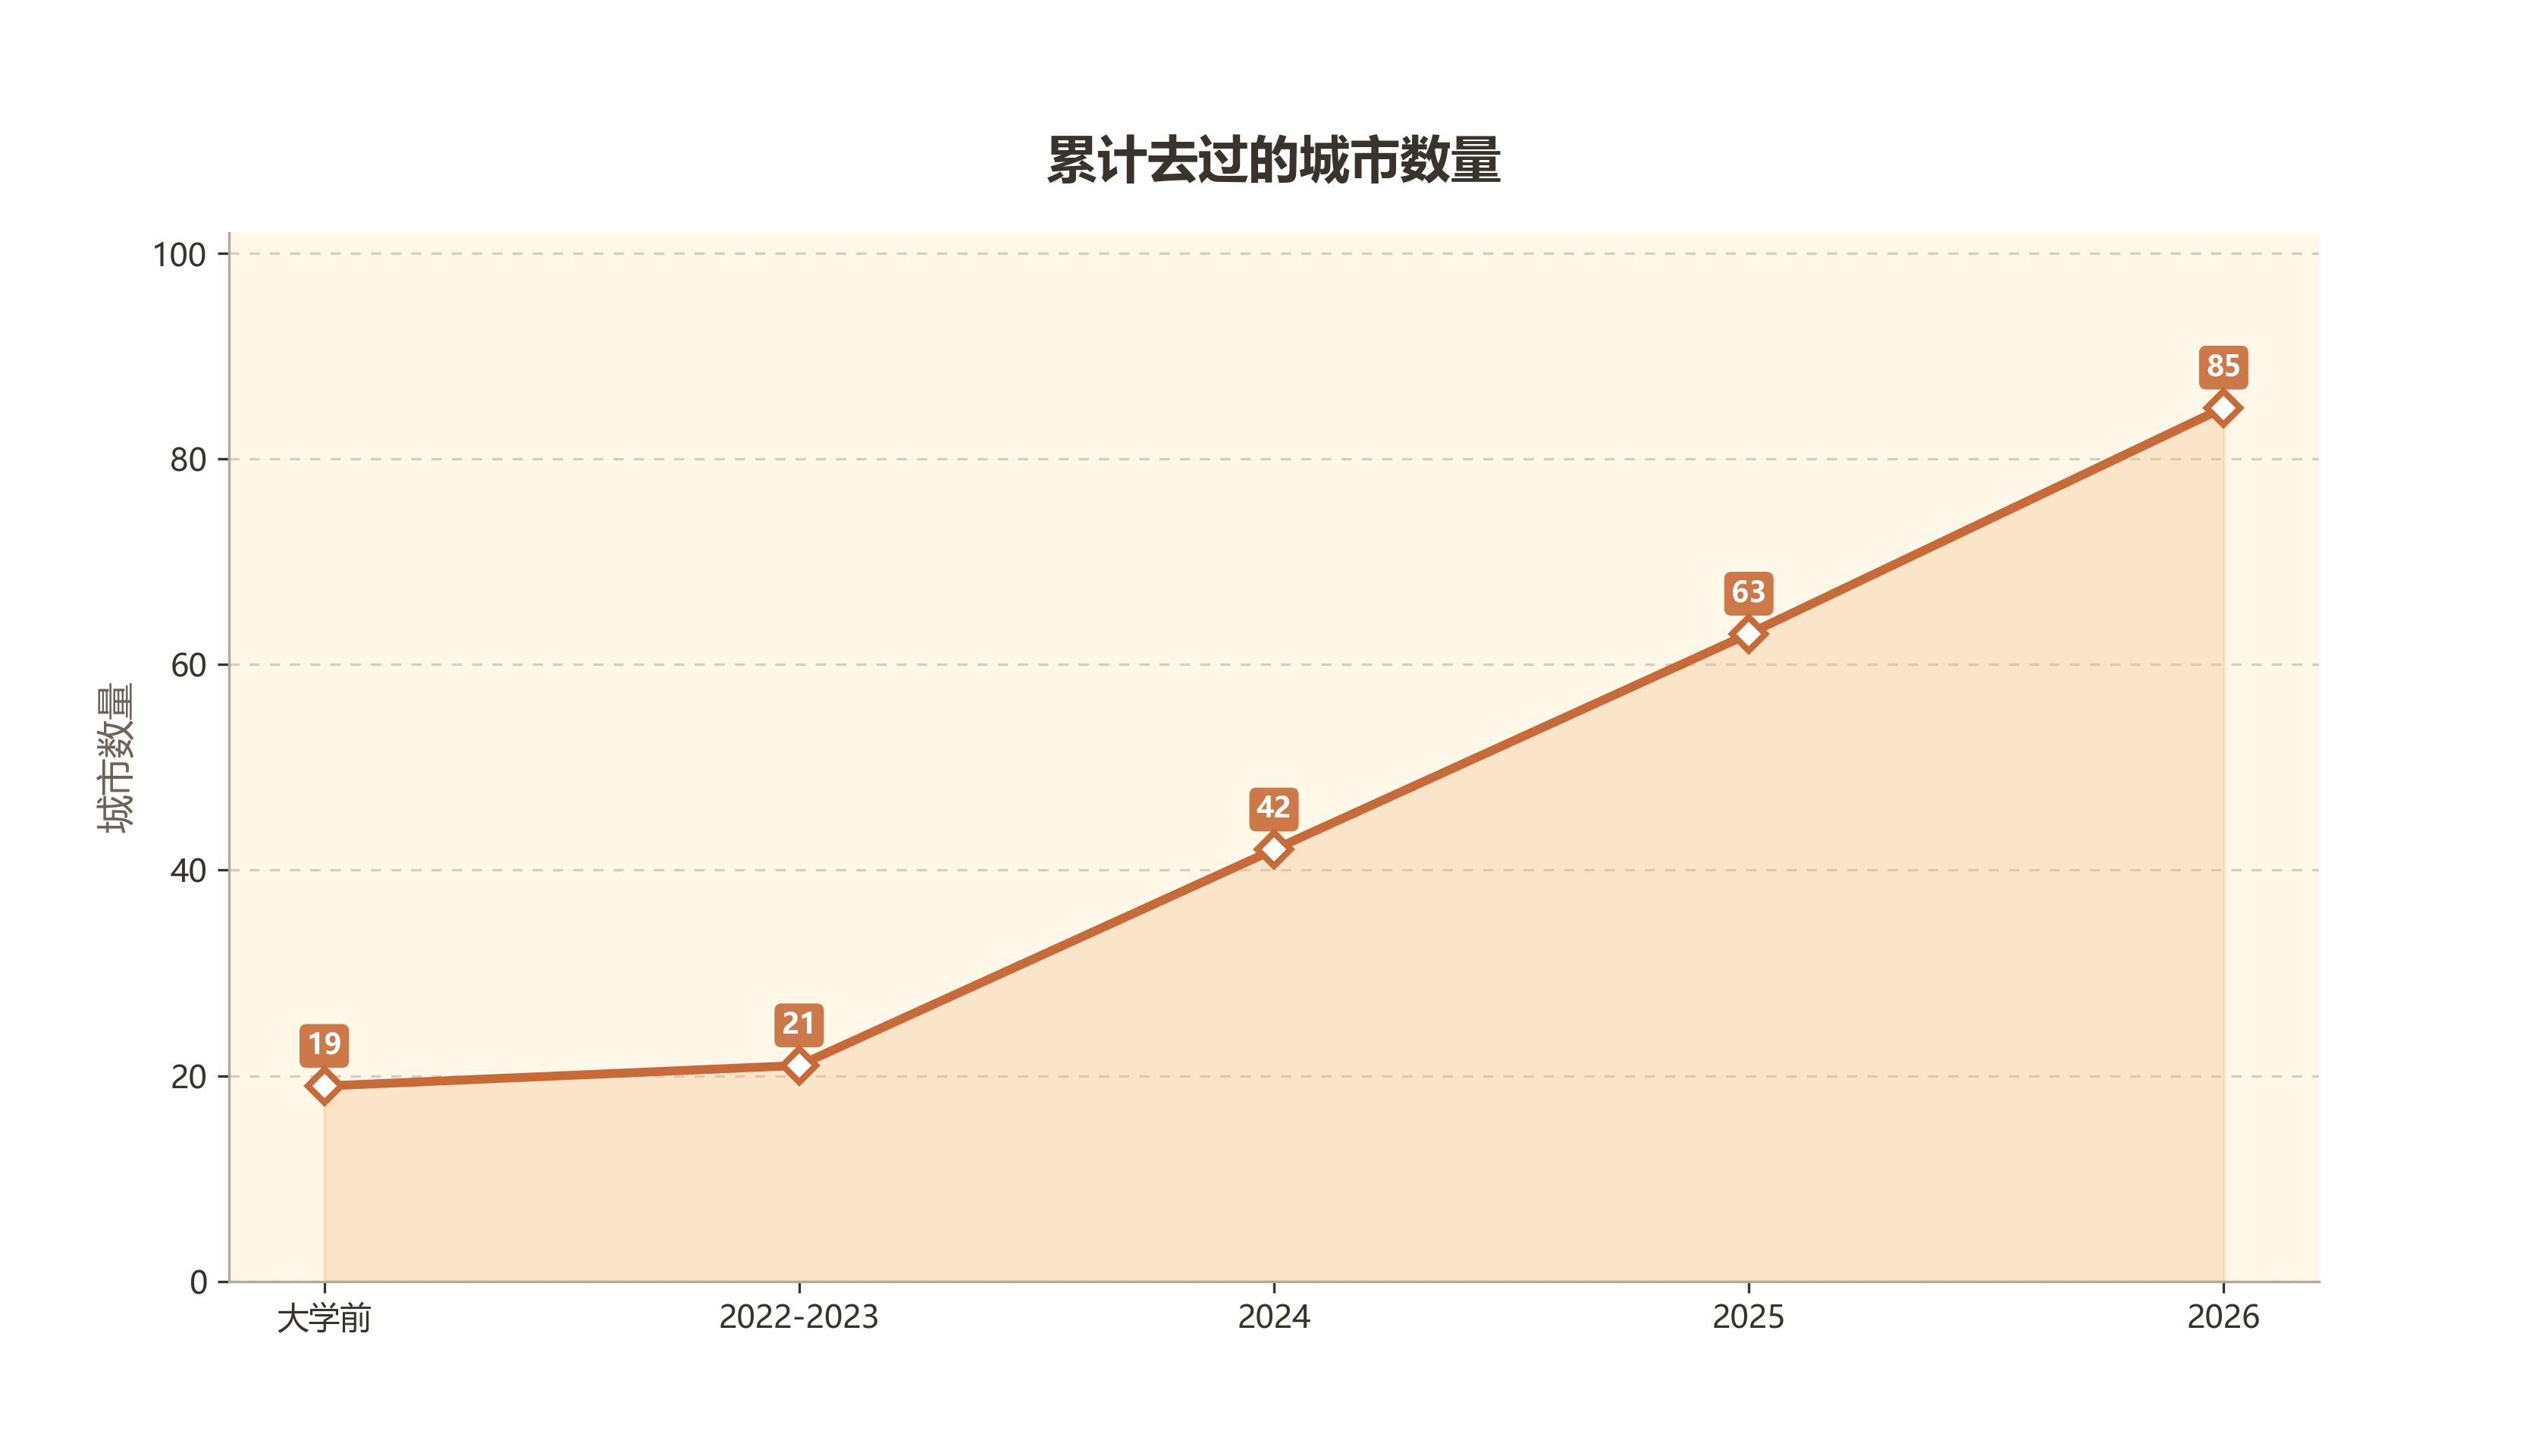
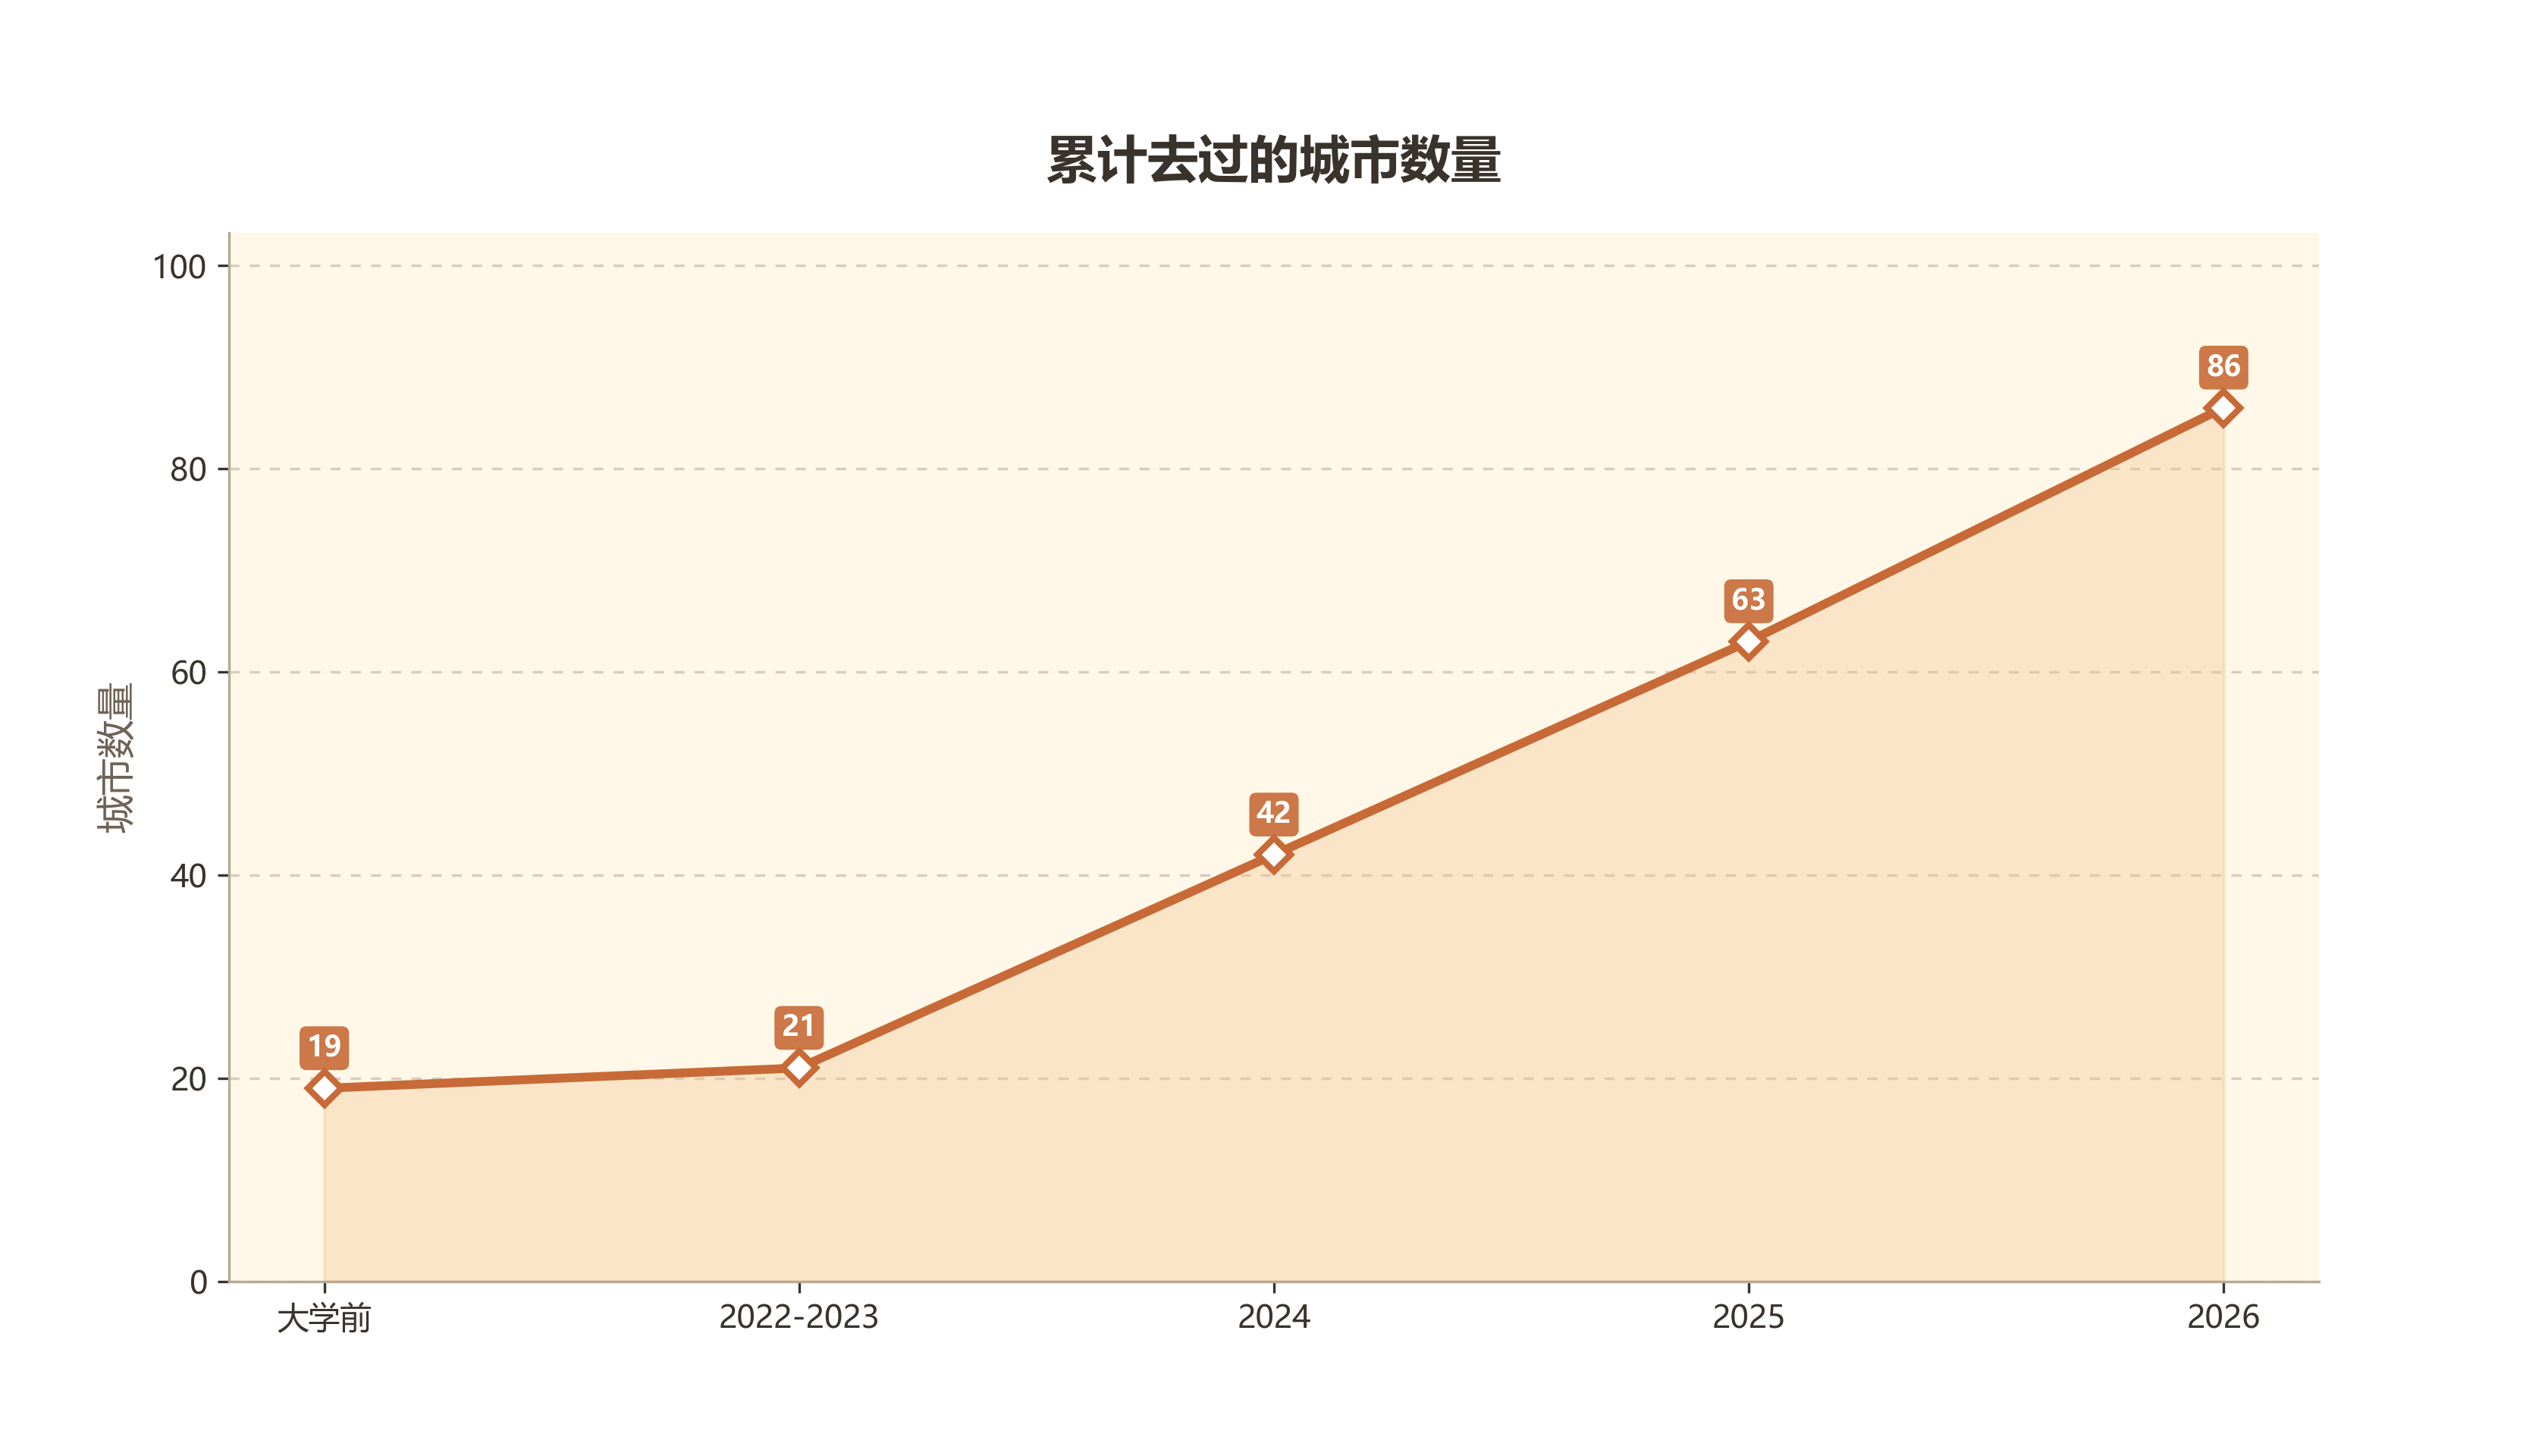
commit

diff --git a/draw.py b/draw.py
@@ -40,8 +40,8 @@ TOP_MARGIN = 0.84
 
 CITY_DATA = {
     "years": ["大学前", "2022-2023", "2024", "2025", "2026"],
-    "new_cities": [19, 2, 21, 21, 22],
-    "cumulative_cities": [19, 21, 42, 63, 85],
+    "new_cities": [19, 2, 21, 21, 23],
+    "cumulative_cities": [19, 21, 42, 63, 86],
 }
 
 
@@ -162,8 +162,11 @@ def draw_area_chart(labels, values, title, ylabel, output_name, line_color, fill
     plt.close(fig)
 
 
-def extract_table_lines(markdown_text, marker):
+def extract_table_lines(markdown_text, markers):
     """Locate a Markdown table by its nearby section marker."""
+    if isinstance(markers, str):
+        markers = [markers]
+
     lines = markdown_text.splitlines()
     collected_lines = []
     found_marker = False
@@ -173,7 +176,7 @@ def extract_table_lines(markdown_text, marker):
         line = raw_line.strip()
 
         if not found_marker:
-            if marker in line:
+            if any(marker in line for marker in markers):
                 found_marker = True
             continue
 
@@ -186,7 +189,8 @@ def extract_table_lines(markdown_text, marker):
             break
 
     if not collected_lines:
-        raise ValueError(f"未找到 {marker} 对应的 Markdown 表格。")
+        marker_text = " / ".join(markers)
+        raise ValueError(f"未找到 {marker_text} 对应的 Markdown 表格。")
 
     return collected_lines
 
@@ -408,8 +412,8 @@ def main():
         marker="D",
     )
 
-    railway_stats = parse_yearly_transport_stats(markdown_text, "铁路记录如下")
-    flight_stats = parse_yearly_transport_stats(markdown_text, "飞行记录如下")
+    railway_stats = parse_yearly_transport_stats(markdown_text, ["铁路记录如下", "展开铁路记录表"])
+    flight_stats = parse_yearly_transport_stats(markdown_text, ["飞行记录如下", "展开飞行记录表"])
     years = build_year_range(railway_stats, flight_stats)
 
     railway_counts, railway_distances = build_series(railway_stats, years)

diff --git a/source/_posts/雷州，雷州.md b/source/_posts/雷州，雷州.md
@@ -9,77 +9,72 @@ date: 2020-08-22 00:00:00
 
 ## 城内 · 城外
 
-虽然三元塔是雷州地标级的建筑，但我也仅去过寥寥几次。塔共九层，前面竖了座碑，写有“天南重地”。越往高处楼梯越窄越陡，我只上到过第三层，自然没有“无边落木萧萧下”的境界。上面有很大的风，而不是城中时时可感的涌动的热气。据说从这里挖出了三枚蛇蛋，吸收了天、地、人“三元”的灵气，但普通人自然难以见到。小时候对三元塔公园最深刻的印象是在长廊里排开的哈哈镜，它们或把天地浓缩于一体，或把刚飞过塔楼的鸟儿夸张地放大。那里还算一个石狗博物馆，各种大小不一形态或狞厉或温顺的石物，在蓝天底下也不觉什么可怖。曾在学校博学楼后发现了多“只”石狗，似乎是从某处撬来的，或互相粘连成形单影只，多少有些落魄。
+虽然三元塔是雷州地标级的建筑，但我也仅去过寥寥几次。塔共九层，前面竖了座碑，写有“天南重地”。越往高处楼梯越窄越陡，我只上到过第三层，虽无“无边落木萧萧下”的境界，但能暂时避开城中时时可感的涌动的热气。据说从这里挖出了三枚蛇蛋，吸收了天、地、人“三元”的灵气，但普通人自然难以见到。小时候对三元塔公园最深刻的印象是在长廊里排开的哈哈镜，它们或把天地浓缩于一体，或把刚飞过塔楼的鸟儿夸张地放大。那里还算一个露天的石狗博物馆，各种大小不一形态或狞厉或温顺的石物，在蓝天底下也不觉什么可怖。
 
-按大人讲，三元塔属“城内”，若是沿旁边的曲街走，过不了多久就能到达“城外”，曲街确实弯曲，春节时曾去逛过。道旁一座小塔，好像也有七层，不过小得很，人进不去。当时街道上店铺很少开门，清一色的灰黑色门板和骑楼灰白的柱子，一些简明的大字招牌。走到人声鼎沸、汽车摩托车单车混杂的转角处，便与“城外鱼亭”不远了，“鱼亭”就是市场；好像还有“城内鱼亭”的，我也搞不清。
+按大人讲，三元塔属“城内”，若是沿旁边的曲街走，过不了多久就能到达“城外”。曲街确实弯曲，今年春节时曾去逛过，当时街道上店铺很少开门，满眼清一色的灰黑色门板和骑楼灰白的柱子，以及一些简明的大字招牌。道旁有一座小塔，好像也有七层，不过小得很，人进不去。走到人声鼎沸、汽车摩托车单车混杂的转角处，便与“城外鱼亭”不远了，“鱼亭”就是市场；好像还有“城内鱼亭”的，我也搞不清。
 
-“城内”与“城外”是上一辈人十分明晰的概念，好像还有“南门”、“北门”之类，难道有城墙，然后像北京城一样拆了？不知是不是越往外越荒凉，但对我而言，这只是一块混沌的区域，似乎原来的“城内”“城外”现在只是由一片低矮老旧的房子（除去三元塔鹤立鸡群）和对城里人们的生活产生直接影响的“鱼亭”组成。老街里有电影院（已经关门，快要拆了），几十年前姨妈曾在这里卖票，能让娱乐匮乏年代里的家人能“走后门”。还有运动场，现在还常举行足球赛，当年的繁华可见一斑。
+“城内”与“城外”是上一辈人十分明晰的概念，好像还有“南门”、“北门”之类，难道有城墙，然后像北京城一样拆了？对我而言，这只是一块混沌的区域，似乎只是由一片低矮老旧的房子（除去三元塔鹤立鸡群）和对城里人们的生活产生直接影响的“鱼亭”组成。老街里有电影院（已经关门，快要拆了），几十年前姨妈曾在这里卖票，能让娱乐匮乏年代里的家人能“走后门”；还有运动场，现在还常举行足球赛，当年的繁华可见一斑。
 
 
 ## 乡镇
 
-把大片老城区包裹起来的街道上，原来开满了杂货店，不过现在很多“旺铺转让”了（旺铺为什么还要转让？）。在与西湖大道的交界处是旧客运车站（现在是停车场），小时候经过这里，最强烈的渴望就是坐一坐到广州去的、双层的、蓝色的、印有一个巨大地球的客车（可惜从没机会），特别是“双层”让我格外憧憬。
+把大片老城区包裹起来的街道上，原来开满了杂货店，不过现在很多“旺铺转让”了。在与西湖大道的交界处是旧客运车站（现在是停车场），小时候经过这里，最强烈的渴望就是坐一坐到广州去的、双层的、蓝色的、印有一个巨大地球的客车（可惜从没机会），特别是“双层”让我格外憧憬。
 
-沿着那条原先开满杂货店如今有海联电器京东门店的街道走上一段，路右边陡起一个大斜坡，通向市政府（大人称之为“司令部”）。小时候被带来“司令部”宿舍跟一个老师学钢琴，好像只学了一节课就不了了之了。再往前走上几公里，途经附城中学、海石花作文补习学校（我一直不知海石花为何物，看了《海洋地理》课本后才知它就是珊瑚），从一家饭店旁的小路进去，就到我老家的村子。原先这片地方还算偏远，不过自从修了八车道的柏油路，对面又建起碧桂园后，华灯初上时总感觉这里很像大城市的地方，在介绍方位时，也可以更方便地说“就在碧桂园对面”。
+沿着那条原先开满杂货店如今有海联电器京东门店的街道走上一段，路右边陡起一个大斜坡，通向市政府（大人称之为“司令部”）。小时候被带来“司令部”宿舍跟一个老师学钢琴，好像只学了一节课就不了了之了。再往前走上几公里，途经附城中学、海石花作文补习学校（我一直不知海石花为何物，看了《海洋地理》课本后才知它就是珊瑚），从一家饭店旁的小路进去，就到我老家的村子。原先这片地方还算偏远，不过自从修了八车道的柏油路、对面又建起碧桂园后，华灯初上时总感觉这里颇有大城市的感觉，在介绍方位时，也可以更方便地说“就在碧桂园对面”。
 
-这里属附城镇，也就是在“城”之“附”，雷州下设十八个镇：白沙、沈塘、客路、杨家、唐家、纪家、企水、松竹、南兴、雷高、东里、调风、龙门、英利、北和、乌石、覃斗、附城，但我真正去过的也就只有附城、白沙（路过的不算）。这些镇的名字有点意思，比如白沙很多地方都有（就像开平也有赤坎），“客路”总让人联想到“客路青山外，行舟绿水前”，不过王湾没有被贬到雷州过，不然西湖公园里的“雷州十贤祠”就变成“十一贤”[^1]了。客路天下闻名的当属白斩狗，但只吃过一两次，其中一次是在雷南大道的“松记”，不知为何先民们在崇敬狗以至为狗塑像的同时还迷恋狗肉。疫情期间上网课讲到对联时我曾写下一联：“雷州白切狗，湛江走地鸡。”白切鸡在我们家是烹饪鸡的主要方法，鸡不要太肥，鸡胸肉白而大块最好。至于龙门，纪念司马迁有一副有名的对联“一代君权痛蚕室，千秋史笔溯龙门”，龙门（今陕西韩城）是司马迁的故乡；洛阳还有个龙门石窟，此外小时候做《黄冈小状元》，是龙门书局出版的，不过这些龙门各不相同，和雷州的龙门也没什么关系。
+这里属附城镇，也就是在“城”之“附”，雷州下设十八个镇：白沙、沈塘、客路、杨家、唐家、纪家、企水、松竹、南兴、雷高、东里、调风、龙门、英利、北和、乌石、覃斗、附城，但我真正去过的也就只有附城、白沙（路过的不算）。这些镇的名字有点意思，比如白沙很多地方都有（就像开平也有赤坎），“客路”容易让人联想到“客路青山外，行舟绿水前”，不过王湾没有被贬到雷州过，不然西湖公园里的“雷州十贤祠”就变成“十一贤”[^1]了。客路天下闻名的当属白斩狗，但我只吃过一两次，其中一次是在雷南大道的“松记”，不知为何先民们在崇敬狗以至为狗塑像的同时还迷恋狗肉。疫情期间上网课讲到对联时我曾写下一联：“雷州白切狗，湛江走地鸡。”白切鸡在我们家是烹饪鸡的主要方法，鸡不要太肥，鸡胸肉白而大块最好。至于龙门，纪念司马迁有一副有名的对联“一代君权痛蚕室，千秋史笔溯龙门”，龙门（今陕西韩城）是司马迁的故乡；洛阳还有个龙门石窟，此外小时候做《黄冈小状元》，是龙门书局出版的，不过这些龙门各不相同，和雷州的龙门也没什么关系。常听外婆说覃斗的芒果出名，是后来引进的，长得很好，老百姓有好收成。
 
-过去村里都是泥路，近几年铺了水泥，安装了路灯，夜里还是能看见星星。村子旁有一条狭长的村道，把几个村子连缀起来。要走过一片浓绿的农田、沟壑、白色的大棚才到下一个村子。听爸爸讲，一直往下走能到海边。要说海，乌石那边的海滩是很有名的，海面上还有钻油井。企水也有渔港，不过我对企水、客路的印象不过是从湛江市区回雷州时的必经之地罢了。现在有了雷湖快线，从新车站那边上工业大道，一直往前走就可以到湛江了，比高速还快很多。路上有一座库竹大桥，听父亲讲过几次，这里是寇准在琼海一带病故后，百姓们用竹子搭桥送其遗骨过河的地方。路边还有几行空空的平房，是父亲刚毕业时来工作的渡口，现在渡口也建成大桥。常听外婆讲起覃斗的芒果出名，是后来引进的，长得很好，老百姓有好收获。
-
+过去村里都是泥路，近几年铺了水泥，安装了路灯，夜里还是能看见星星。村子旁有一条狭长的村道，把几个村子连缀起来。要走过一片浓绿的农田、沟壑、白色的大棚才到下一个村子。听父亲讲，一直往下走能到海边。要说海，乌石那边的海滩是很有名的，海面上还有钻油井。企水也有渔港，不过我对企水、客路的印象主要是小时从湛江市区回雷州时的必经之地。现在有了雷湖快线，从新车站那边上工业大道，一直往前走就可以到湛江了，比高速还快很多。路上有一座库竹大桥，听父亲讲过几次，这里是寇准在雷州病故后，百姓们用竹子搭桥送其遗骨过河的地方。路边还有几行空空的平房，是父亲大学刚毕业时工作过的渡口，现在渡口旁也建起了大桥。
 
 ## 西湖新村
 
-杭州有西湖，惠州有西湖，雷州有西湖，苏轼应该三处都游玩过。C同学说他们小学时写游记，全班人都写“美丽的西湖公园”，但很难说西湖有什么特别迷人的地方。外婆家就在公园后面，一个叫“西湖新村”的地方，和园中园酒店隔一条水沟。园中园前面广场上停了一架挺小的战斗机，好像参加过抗美援朝战争。它穿过战火与历史的烟雨，轮子被卸掉了，玻璃变白了。
+杭州有西湖，惠州有西湖，雷州有西湖，苏轼应该三处都到过。C 同学说他们小学时写游记，全班人都写“美丽的西湖公园”，但事实上很难说西湖有什么特别迷人的地方。外婆家就在公园后面一个叫“西湖新村”的地方，和园中园酒店隔一条水沟。园中园门前停了一架挺小的战斗机，好像参加过抗美援朝战争。它穿过战火与历史的烟雨，轮子被卸掉了，玻璃变白了。
 
-外婆家有个院子，不算大，却能装一个能养十几只鸡的鸡舍，两株龙眼树，一个大水缸，一台老旧的缝纫机，一台几年前外婆还能骑着去买菜的自行车。那龙眼树很神奇，隔年才生龙眼，虽然没有多么大，但是能压低枝头，挂在二楼的窗台上，今年又长龙眼了，这段时间雨水多，赶忙把龙眼摘下来（有很多已经给邻居摘走了），装了半麻袋，很多的壳已经裂开，也因浸泡了雨水也不觉那么甜了。摘龙眼是用一根长长的竹竿（一端绑一个剪开半边的塑料瓶），小时中午不睡觉想拿这“装置”摘龙眼，叶子倒是落了很多。假如现在去摘（当然没空回去），应该是比较容易的了，不过仰着脖子可能不太好受。
+外婆家有个院子，不算大，却能装一个能养十几只鸡的鸡舍，两株龙眼树，一个大水缸，一台老旧的缝纫机，一辆几年前外婆还能骑着去买菜的自行车。那龙眼树很神奇，隔年才生龙眼，虽然没有多么大，但是能压低枝头，挂在二楼的窗台上；今年又长龙眼了，这段时间雨水多，外婆赶忙把龙眼摘下来（有不少已经被邻居摘走了），装了半麻袋，很多的壳已经裂开，也因浸泡了雨水而不那么甜了。摘龙眼是用一根长长的竹竿（一端绑一个剪开半边的塑料瓶），小时中午不睡觉想拿这“装置”摘龙眼，龙眼没够到，叶子倒是落了很多。假如现在去摘（当然没空回去），应该是比较容易的了，不过仰着脖子可能不太好受。
 
-外婆十分虔诚，逢一些初一十五佛祖诞辰照例要吃斋的，有时候头晕到万不得已才向佛祖“请假”。她在雷州待着时，常去路头的小庙或是雷州一中老校区边的天宁寺，在家则早晚面朝西双手合十念念前词，念完往前弯几下腰，似有总结全文升华主题之意。小时候父亲带我进天宁寺看过，里面肃静威严，青布长衣的和尚悄悄走动令人敬畏，我还以为那些金身画像是孙悟空之类。雷州博物馆在天宁寺斜对面，非常气派，但里面空空荡荡，一群石狗似乎是租客。博物馆两侧和后面卖玩具的店居多，有一家价格挺贵，但也红火，大人说是“汕头仔”的，似有不屑的意味。博物馆旁是广场，常有唱雷剧的，原来春节时母亲带外婆去听（那里还放满了塑料凳子），我只觉得鼓乐喧天而不知所云，满耳都是ā á ǎ à，只能逃到旁边的新华书店。
+外婆十分虔诚，逢一些初一十五佛祖诞辰照例要吃斋的，有时候头晕到万不得已才向佛祖“请假”。她在雷州待着时，常去路头的小庙或是雷州一中老校区边的天宁寺，在家则早晚面朝西双手合十念念前词，念完往前弯几下腰，似有总结全文升华主题之意。小时候父亲带我进天宁寺看过，里面肃静威严，青布长衣的和尚悄悄走动令人敬畏，我还以为那些金身画像是孙悟空之类。雷州博物馆在天宁寺斜对面，非常气派，但里面空空荡荡，一群石狗似乎是租客。博物馆两侧和后面以玩具店居多，有一家价格挺贵，但也红火，大人说是“汕头仔”的，似有不屑的意味。博物馆旁是广场，常有唱雷剧的，春节时母亲带外婆去听（那里还放满了塑料凳子），我只觉得鼓乐喧天而不知所云，满耳都是ā á ǎ à，只能逃到旁边的新华书店。
 
-原来正月里还有游神，各种花车流过大街，舞龙舞狮鞭炮轰鸣，观者如堵，我曾看过两次，一次是在婶婶的店铺门口，另一次是在博物馆前，还是外婆早早摆了凳子占座位的。游神现在已经简化成几个人敲锣打鼓，几个人舞一头狮，穿过大街小巷，隔一处就放一挂鞭炮，外婆在此时就会放下手上的活计站在院里对着“狮子”双手合十，微微点头。
-
+过去正月里还有游神，各种花车流过大街，舞龙舞狮鞭炮轰鸣，观者如堵。我曾看过两次，一次是在婶婶的店铺门口，另一次是在博物馆前，外婆早早摆了凳子占座。游神现在已经简化成几个人敲锣打鼓，几个人舞一头狮了，他们穿过大街小巷，隔一处就放一挂鞭炮，外婆在此时就会放下手上的活计站在院里对着“狮子”双手合十，微微点头。
 
 ## 南湖
 
-西湖广场舞台后面是南湖，湖中有拱桥，现在挂上了彩灯，晚上流光溢彩，容易想起白居易的“灯火万家城旧畔，星河一道水中央”。湖边是广场，照例是老人们的乐园。从广场过马路，沿一条水沟向里走，就是“后闸”了，这是姑妈原来住的地方。路头有一家诊所，贴有防止狂犬病的海报（后来应该是关于新冠疫情的）。姑妈家大约在中间，只有一层半，进门是厅，很昏暗，靠天井洒下光，一角有台电视机，下面有个装满了啤酒盖的麻袋，一侧是一条黑色的老旧的但摸起来十分光滑的红木椅，墙上有一张中国地图，一张画报，上写“风和日丽”，二楼有个鱼缸，鱼食的味道很好闻，还养了几只鸽子。
+西湖广场舞台后面是南湖，湖中有拱桥，现在挂上了彩灯，晚上流光溢彩，容易想起白居易的“灯火万家城旧畔，星河一道水中央”。湖边是广场，照例是老人们的乐园。从广场出来，过马路后沿一条水沟向里走，就是“后闸”了，这是姑妈原来住的地方。路口有一家诊所，贴有防治狂犬病的海报。姑妈家在巷子中间，只有一层半，进门是大厅，很昏暗，靠天井洒下光。客厅一角有台电视机，电视下有个装满了啤酒盖的麻袋，另一侧是一条黑色的老旧的但摸起来十分光滑的红木椅，椅后的墙上有一张中国地图，一张写有“风和日丽”的画报。二楼有个鱼缸，鱼食的味道很好闻，还养了几只鸽子。
 
-小时候常去姑妈家，姑父早上会带我去逛。出门后沿小巷走过一座小桥，到达那一端，是一个小市场，墙上电线杆上贴满了小广告。当时下巴上长了一个痣，大人把我拉到里面一个据说“点痣”很厉害的人那里（人确实挺多）。至于流程，是把痣刮起半边，洒上药粉，再用指甲钳把痣剪掉，还好指甲钳用酒精消过毒了，不然后果难以想象。
+小时候常去姑妈家，姑父早上会带我去逛。出门后沿小巷走过一座小桥，到达那一端，是一个小市场，墙上电线杆上贴满了小广告。当时下巴上长了一个痣，大人把我拉到里面一个据说“点痣”很厉害的人那里（人确实挺多）。“点痣”的流程，是把痣刮起半边，洒上药粉，再用指甲钳把痣剪掉，还好指甲钳用酒精消过毒了，不然后果难以想象。
 
-姑父是很和蔼的老人，头秃了，很亮，牵着我沿大街逛到“城内”“城外”或是过拱桥，也讲一些有趣的故事，回到南湖广场附近时让我复述，我自然都忘了（现在也没记起来），一心想着回去喝旺仔牛奶。到了傍晚，姑妈就骑自行车送我回家，她怕我坐着不舒服，便在后座垫了一块毛巾。有一次天色昏暗将下暴雨，姑妈忙披起雨衣，我缩在后面，在雨衣中听着雨滴的声音和车轮艰难的摩擦声。那时候我家还在水店（一个地名），新城大道上面，离“后闸”挺远，隐约记得到家时雨早已停了。
-
+姑父是很和蔼的老人，头秃了，很亮，牵着我沿大街逛到“城内”“城外”，也讲一些有趣的故事，回到南湖广场附近时让我复述，我自然都忘了（现在也没记起来），一心想着回去喝旺仔牛奶。到了傍晚，姑妈就骑自行车送我回家，她怕我坐着不舒服，便在后座垫了一块毛巾。有一次天色昏暗将下暴雨，姑妈忙披起雨衣，我缩在后面，在雨衣中听着雨滴的声音和车轮艰难的摩擦声。那时候我家还在水店（一个地名，在新城大道上），离“后闸”挺远，隐约记得到家时雨早已停了。
 
 ## 群众大道
 
-西湖大道、群众大道、新城大道交汇处是一个大十字路口，四周环绕有名都大酒店、雷州人民医院、三川酒家（现已改为人民医院的大楼）、邮电局等。靠邮电局那边有很多卖水果的摊贩，还有报亭，我在那儿买过几份《参考消息》。群众大道不算长，南接雷南大道，再往南就到雷祖祠，我去过两次，第一次没什么印象，第二次发现那里修缮一新，广场环境不错（也就这点印象，至于雷祖也就仅知他是唐朝陈文玉）。群众大道是雷州最具代表性的街道两边开有一些名为“麦优乐”“肯麦基”之类的店，还有小时候熟悉的“壹加壹”饼店（现已改名为“臧隆记”了）。前些年三摩两摩还十分盛行，有着大城市地铁公交一般的作用，路上还有一些长长的冒着烟的（发动机在前面）的运货车，我去仔细看过，是“东方红”牌的。
+西湖大道、群众大道、新城大道交汇处是一个大十字路口，四周环绕有名都大酒店、雷州人民医院、三川酒家（现已改为人民医院的大楼）、邮电局等。靠邮电局那边有很多卖水果的摊贩，还有报亭，我在那儿买过几份《参考消息》。群众大道不算长，南接雷南大道，雷南大道再往南就到雷祖祠，我去过两次，第一次没什么印象，第二次发现那里修缮一新，环境不错（至于雷祖也就仅知他是唐朝陈文玉）。群众大道是雷州最具代表性的街道，两边开有一些名为“麦优乐”“肯麦基”之类的店，还有小时候熟悉的“壹加壹”饼店（现已改名为“臧隆记”了）。前些年搭客三摩两摩（三轮、两轮摩托车）还十分盛行，路上还有一些长长的冒着烟的（发动机在前面）的运货车，我曾仔细观察过，是“东方红”牌的。
 
-我在教育局幼儿园从小班念到大班，在群众大道的一条横路上，路头是教育局书店，斜坡上去是幼儿园，再里面是附小，每到上下课都异常拥挤。关于幼儿园，有一件事至今在我们家津津乐道：一次讲故事比赛，我们班的选手因吃多了糖生了蛀牙，痛得在麦克风前大哭，我就临危受命，当时老师很着急，把我衣服拉链都拉坏了。有一次木偶戏表演，我不敢认真看，因为怕那不断变幻的脸会把我的帽子叼走。还有一回，一个老师来教室里拉手风琴，很好听。下午放学比较早，母亲就要“偷鸡”（意思是偷偷地）从单位出来接我到办公室，一般都准备有一个保温杯装汤。有一次晚上要回家时找不到电动车钥匙，只得叫了一辆三轮板车载车和人回去，到新城大道中间劳动局那里下雨了，只得打电话向同事借伞。回到家后才发现钥匙在我书包里。
+我在教育局幼儿园（现雷州市第一幼儿园）从小班念到大班。幼儿园在群众大道的一条横路上，路口是教育局书店，斜坡上去是幼儿园，再里面是雷州八小和湛江市实验中学，每到上下课都异常拥挤。关于幼儿园，有一件事至今在我们家津津乐道：一次讲故事比赛，我们班的选手因吃多了糖生了蛀牙，痛得在麦克风前大哭，我就临危受命了；记得当时老师很着急，把我衣服拉链都拉坏了。还有一次木偶戏表演，我不敢认真看，生怕那不断变幻的脸会把我的帽子叼走。还有一回，一个老师来教室里拉手风琴，很好听。下午放学比较早，母亲就要“偷鸡”（意思是偷偷地）从单位出来接我到办公室，一般都准备有一个保温杯装汤。有一次晚上要回家时找不到电动车钥匙，只得叫了一辆三轮板车把我们和电动车载回去，到新城大道中间劳动局那里下雨了，又要打电话向同事借伞；回到家后才发现钥匙在我书包里。
 
-母亲单位对面是昌大昌（原来我一直以为只有雷州有昌大昌；但这家昌大昌后来也撤场了），广场上马路边尽是地摊或小吃摊，乌烟瘴气，一片狼籍。往前走两旁有很多窗帘店，婶婶家也开了一间，叫“阳光布艺”。店的斜对面，又是一条横路，有一个很大的斜坡，过去这里有个叫“冰厂”的地方，这也是搭摩时司机比较熟悉的目的地。一旁新建了小区，叫“美好华庭”，姑妈的新家就在这里，明亮宽敞，在阳台上能一眼望到三元塔，春节时还能看到烟花在大片平房上绽开。另一边空地被居民们变成了垃圾场，有一次曾和母亲说：“还是湛江好，这里太乱了。”只记得母亲瞪了我一眼，欲言又止。湛江搞了几年轰轰烈烈的“创卫”“创文”，市区面貌总体上还是有很大改观，雷州却似乎变化不大。
+母亲单位对面是昌大昌（原来我一直以为只有雷州有昌大昌；但这家昌大昌后来也撤场了），广场上马路边尽是地摊或小吃摊，乌烟瘴气，一片狼籍。再往前走，大道两侧有很多窗帘店，婶婶家也开了一间，叫“阳光布艺”。店的斜对面，又是一条横路，有一个很大的斜坡，过去这里有个叫“冰厂”的地方，这也是搭摩时司机比较熟悉的目的地。一旁新建了小区，叫“美好华庭”，姑妈的新家就在这里，明亮宽敞，在阳台上能一眼望到三元塔，春节时还能看到烟花在大片平房上绽开。另一边的空地被居民们变成了垃圾场，有一次曾和母亲说：“还是湛江好，这里太乱了。”只记得母亲瞪了我一眼，欲言又止。湛江搞了几年轰轰烈烈的“创卫”“创文”，市区的面貌有了很大改观，雷州的进步却远不及市区。
 
-这块地区，叫作天和区（当然不是广州的天河区），只能算一块“区域”，而不是真正的区县，雷州四中就在这里。搬去水店之前我们家住在这里，那时还小，母亲不让吃多月饼，我就趁大人不在家，躲在藏月饼的房间里偷吃。那时傍晚还能辨别出父母回家的摩托车声音。后来那里通了3路公交车，依旧热闹无比。
-
+这块地区，叫作天和区（当然不是广州的天河区），只能算一块“区域”，而不是真正的区县，雷州四中也在这里，也是我们家搬去水店之前住的地方。那时还小，母亲不让吃多月饼，我就趁父母不在家，躲在放月饼的房间里偷吃。到了傍晚时分，还能辨认出父母回家的摩托车声音。
 
 ## 新城
 
-十多年前水店那边只有几栋小楼和零星的商品楼，周围有树林，十分偏僻。和父亲去散步时有一次到了一处清幽的地方，我至今常常想起，以为胜景，有“伐竹取道，下见小潭，水尤清冽”之感，但现在应该没有了吧。
+十多年前水店那边只有几栋小楼和零星的商品楼，周围有树林，十分偏僻。有一次和父亲去散步时到了一处清幽的地方，我至今常常想起，以为胜景，有“伐竹取道，下见小潭，水尤清冽”之感，后来再找，已“不复得路”，大抵已经消逝了吧。
 
-后面有一个大斜坡，上面是供电宿舍，还建了一个当时较新式的小区，旁边有实验学校，我在校园里一圈圈地骑着四轮单车，想象成开着2路公交车经过各个地方。不远处在修路，一片黄泥，工程车来往把土地压实。夏天，泥土裂开一道道纹，父亲说那是“干旱”。有一回日食，下了暴雨，印象中到处是黄色的泥浆，晚上做了一个很奇怪的梦，梦见一只奇怪的大鸟像钟摆一样摆动着飞过天空。那时不知千年前苏子游赤壁也曾梦见白鹤掠过。由于靠近树林，夏夜常有蝙蝠飞入房中，我往往就躲在房间里，偷偷地看爸爸追横冲直撞的蝙蝠，最终用羽毛球拍夹住放回树林（现在树林自然没有了）。
+屋后有一个大斜坡，上面是供电宿舍，还建了一个当时较新式的小区，旁边是实验学校，傍晚时我会在校园里一圈圈地骑四轮单车，想象成开着2路公交车经过各个地方。不远处在修路，一片黄泥，工程车来往把土地压实。夏天，泥土裂开一道道纹，父亲说那是“干旱”。有一回日食，下了暴雨，印象中到处是黄色的泥浆，晚上做了一个很奇怪的梦，梦见一只奇怪的大鸟像钟摆一样摆动着飞过天空。那时不知千年前苏子游赤壁也曾梦见白鹤掠过。由于靠近树林，夏夜常有蝙蝠飞入房中，我往往就躲在房间里，偷偷地看父亲追横冲直撞的蝙蝠，直到用羽毛球拍夹住放回树林（现在树林自然没有了）。
 
 墙壁上贴有老师奖的贴纸，我把它们连成火车的形状。客厅里有台厚厚的电视，印象较深的是看神舟飞船发射的场景，至于国庆六十周年阅兵、汶川大地震，就没太多印象了（在看到地震疏散的场景时，母亲讲“不怕一万，就怕万一。”万一是什么？为什么可怕？那时想不明白）。一次我的脚被热水烫伤，就坐在邻居门前，泡着药液，见到了娶新娘的场景。那时婶子还在照料我，她是村子里的亲戚，每晚都要骑电车回附城镇村里去，但她几年前患疾辞世，实在令人心痛。现在路早已修好，高压电杆站在路中间，楼房拔地而起，形成一座围城。
 
 新城大道是雷州发展的缩影。路头有一家店卖松花奶的店，是亲戚的亲戚开的，原来我也喝过，据说能补脑，现在不知关门了没有。原来去霞山的客车要经过中间的横路，也就是劳动局（现在是人力资源和社会保障局）和环保局之间，绿树浓密，以至于现在回忆起来，那里竟是一块黑色。路边有一间画室，招牌是一幅极狰狞的脸，就那样放在路边，每次经过都头皮发麻。我也在那里学过画，像模像样地买了画板画夹。新城大道随着国际广场（也就是世贸）的兴建而热闹，马路中间的绿化带很宽阔还种了树，一直向前去就到了茂德公鼓城。我去过两次，第一次还没装修完，多半有一些“古”的气味，令人新鲜；第二次装修得差不多了，里里外外全是卖东西的，倍感索然无味。
 
-雷州半岛在四千多年前的新石器时代就有人居住了，雷州城也长期是政治经济文化的中心。近代以降，城市重心趋向于如今的赤坎霞山后，雷州人也习惯于将雷州与湛江市区分开来，比如说“上湛江”“回海康”（雷州在相当长的历史时期里被称为海康县，后来为了评选全国历史名城，改回雷州），虽然有在地理上分南北的缘故，但多少有些自感落后的意味。雷州民风粗犷，之前交通异常混乱，车辆横冲直撞，近几年等红灯、戴头盔的人多了，希望在不久的将来街上能少见一些“扫黑除恶，建设文明社会”“打赢禁毒人民战争”之类的大字标语吧。
-
+雷州半岛在四千多年前的新石器时代就有人居住了，雷州城也长期是半岛政治经济文化的中心。近代以降，城市重心趋向于如今的赤坎霞山后，雷州人也习惯于将雷州与湛江市区分开来，比如说“上湛江”“回海康”（现在的雷州市一带在长达一千多年里都被称为海康县，九十年代时为了评选国家历史文化名城，改回雷州），虽然有在地理上分南北的缘故，但多少有些自感落后的意味。雷州民风粗犷，之前交通异常混乱，车辆横冲直撞，但近几年等红灯、戴头盔的人多了，希望在不久的将来街上能少见一些“扫黑除恶，建设文明社会”“打赢禁毒人民战争”之类的大字标语吧。
 
 ## 后来
 
-小时有次要到湛江参加一个活动，我激动异常，半夜就醒来把鞋袜穿好。那时在雷州一小学画画，听父母讲起湛江八小这所“名校”（当然是名校，加双引号只是为了表示当时不了解这两个字的含义），就跟老师讲：“我要读八小！”谁知道呢？当时我五岁半，读大班上学期（雷州当地一般七岁读小学），但就这样沿着西湖大道经过民政局、水店一直上到湛江来，那是2010年2月10日，迄今已有十余年。来湛江后读了半年学前班就进了八小，那是后话了。
+小时候有次要到湛江参加一个活动，我激动异常，半夜就醒来把鞋袜穿好。那时在雷州一小学画画，听父母讲起湛江八小这所“名校”（当然是名校，加双引号只是为了表示当时不了解这两个字的含义），就跟老师讲：“我要读八小！”谁知道呢？当时我五岁半，读大班上学期（雷州当地一般七岁读小学），但就这样沿着西湖大道经过民政局、水店一直上到湛江来，那是2010年2月10日，迄今已有十余年。来湛江后读了半年学前班就进了八小，那是后话了。
 
-小学的时候周围都是讲普通话、白话（粤语）的，常觉讲雷州话是一件见不得人的事。初中后，雷州的同学逐渐增多，我也就有了放心讲雷州话的机会。但说来惭愧，我也只会讲那些日常交流用语，至于一些词语只能用普通话来翻译，常有“雷州普通白”（一句话夹杂雷州话、普通话、白话）的奇怪场景。在书店里看到过《雷州话词典》，并没看懂，因为是用类似拼音一样的符号来给雷州话注音。徐闻那边也说雷州话，但从没和徐闻的同学说过雷州话，可能是徐闻的雷州话和雷州的雷州话在一些腔调上有差异，听起来不舒服（其实就算是在雷州不同地方，同一个字词的发音也是不一样的）。遂溪地处南北交界处，有很多人会说白话和雷州话，但以白话为主，再往北，就基本是说白话的了（还有吴川话客家话，和白话又不太一样）。来湛江生活了这么久，白话的日常用语基本能听懂，一说就出洋相了；但不得不承认，白话的腔调远比雷州话多样灵动。
+小学的时候周围都是讲普通话、白话（粤语）的，常觉讲雷州话是一件见不得人的事。初中后，雷州的同学逐渐增多，我也就有了放心讲雷州话的机会。但说来惭愧，我也只会讲那些日常交流用语，至于一些词语只能用普通话来翻译，常有“雷州普通白”（一句话夹杂雷州话、普通话、白话）的奇怪场景。在书店里见到过《雷州话词典》，并没看懂，因为是用类似拼音的符号来给雷州话注音。徐闻那边也说雷州话，但我从没和徐闻的同学说过雷州话，可能是由于徐闻的雷州话和雷州的雷州话在一些腔调上有差异，听起来不舒服（就算是在雷州不同地方，同一个字词的发音也是不一样的）。遂溪地处半岛南北交界处，有很多人同时会说白话和雷州话，但以白话为主，再往北，就基本是白话的地盘了（还有吴川话客家话，和白话又不太一样）。来湛江生活了这么久，白话的日常用语基本能听懂，一说就出洋相了；但不得不承认，白话的腔调远比雷州话多样灵动。
 
-还有几件事和雷州有所联系。中考后去了贵州的镇远古镇，我感觉那里的气质和雷州有骨子里的相似。看到那里的小孩“散学归来早”，在桥边嬉戏，真有回到雷州的感觉。2020年高考山东卷选了一篇《建水记》，过我马上买了原书；书里讲述的是云南建水小城的独特韵味和风貌，这就又勾起我的雷州记忆了。
+中考后去了贵州的镇远古镇，我感觉那里的气质和雷州有骨子里的相似。看到那里的小孩“散学归来早”，在桥边嬉戏，真有回到雷州的感觉。2020年高考山东卷选了一篇《建水记》，过我马上买了原书；书里讲述的是云南建水小城的独特韵味和风貌，这就又勾起我的雷州记忆了。
 
-写着写着，想起之前读过的《马桥词典》，马桥不是作者韩少功的故乡，但数年的生活经历也可以让他领略原汁原味的风土人情。最近还有部纪录片《文学的故乡》，里面介绍了作家们回到精神意义上的故土时的场景，比如莫言的高密，刘震云的延津，贾平凹的商州。我虽不太可能成为作家，但还是尽己所能把曾经的岁月记录下来，不只是因为所谓的“乡愁”，更是怕将来忘记了。
+写着写着，想起之前读过的《马桥词典》，马桥不是作者韩少功的故乡，但数年的生活经历也足以让他领略原汁原味的风土人情。最近还有部纪录片《文学的故乡》，里面介绍了作家们回到精神意义上的故土时的场景，比如莫言的高密，刘震云的延津，贾平凹的商州。我虽不太可能成为作家，但还是尽己所能把曾经的岁月记录下来，不只是因为所谓的“乡愁”，更是怕将来忘记了。
 
 最后，我想把从2班借来的《散文》杂志上刊登的雷平阳的《亲人》抄录如下：
 

diff --git a/南京.md b/南京.md
@@ -1,0 +1,38 @@
+6.19
+前一天唱歌到一点，早上早起，到了酒店，睡到中午
+仙谷鱼府
+下雨
+江宁织造博物馆 吴良镛设计
+江苏省美术馆（老馆） 国立美术陈列馆旧址
+南京人民大会堂 国民大会堂旧址
+总统府 只在门前拍了个照
+南京博物院 晚上5点到八点场
+人特别多 
+穿过明故宫遗址公园
+很难打车
+去竺桥兄弟烤鸭（竺桥店）六点半就卖完了
+在旁边的江南私房小厨吃烤鱼
+
+6.20
+雨花台公园 方孝孺墓 杨邦乂剖心处
+金陵兵工厂旧址
+天坛大佛法像
+大报恩寺遗址 只在门口拍照
+过长干桥到中华门 长干里
+南京城墙博物馆
+老门东 “大明王朝”南京菜
+到孝陵卫地铁站
+中山陵、音乐台、美龄宫、明孝陵 孙权墓
+瓦焱南京菜
+夫子庙
+江南贡院
+中国科举博物馆 考卷 张謇金榜
+
+6.21
+红山动物园
+计划当天去总统府，后续住
+下雨 猫科星球 只看到一只狞猫 熊馆没见到熊
+鼓楼
+日本驻南京大使馆旧址 在部队内
+鼓楼医院 马林医院旧址
+新街口 孙中山像

diff --git a/source/_posts/长安一片月，吹梦到西洲：西安一游，兼记咸阳运城.md b/source/_posts/长安一片月，吹梦到西洲：西安一游，兼记咸阳运城.md
@@ -13,13 +13,13 @@ date: 2024-07-15 00:00:00
 > 关城树色催寒近，御苑砧声向晚多。
 > 莫见长安行乐处，空令岁月易蹉跎。
 
-高中时初读《送魏万之京》感觉一般，后来再听好友谈起，两人将其背下，越读越有味道。五六句常在脑海里浮过，本想将其作为标题，但此时正是盛夏而非深秋，恐不太妥当，不过云山过客之感大抵不会因时节而异吧。来西安之前的七月五日，凤凰传奇在演唱会上唱了《云山》这首歌（但此前没听过），想来也是一种缘分。这是我看的第一场演唱会，他们的组合更名为“凤凰传奇”已二十年，而我也正好二十岁。
+高中时初读《送魏万之京》感觉一般，后来再听好友谈起，两人将其背下，越读越有味道。这首诗的五六句常在脑海里浮过，本想将其作为标题，但此时正是盛夏而非深秋，恐不太妥当，不过颔联的云山过客之感大抵不会因时节而异吧。来西安之前的七月五日，凤凰传奇在演唱会上唱了《云山》这首歌（但此前没听过），想来也是一种缘分。这是我看的第一场演唱会，他们的组合更名为“凤凰传奇”已二十年，而我也正好二十岁。
 
-这次来西安本不在计划之内，不过五月底时见到教务处发了关于西安交大举办第十五届“中国传统文化”C9暑期学校的通知，该活动有1.5个学分，但无需考核，且往返机票报销，住宿上课免费，遂报名。活动时间原定是7月8日-17日（后提前一天结束），我提前一天来，17日晚离陕回肥，其间所去之地甚繁，且以时间为序，略记如下，有所空缺者，乃因在校上课，未有走动。
+这次来西安本不在计划之内，不过五月底时见到教务处发了关于西安交大举办第十五届“中国传统文化” C9高校暑期学校的通知，该活动有1.5个学分，但无需考核，且往返机票报销，住宿上课免费，遂报名。活动时间原定是7月8日-17日（后提前一天结束），我提前一天来，17日晚离陕回肥，其间所去之地甚繁，且以时间为序，略记如下，有所空缺者，乃因在校上课，未有走动。
 
 - 7.7
 
-从西安咸阳机场出来，途径凤凰台[^1]，到咸阳博物院（不开门），再到咸阳古渡遗址博物馆。彼时漫天细雨，此馆又地处渭城区，临渭河而建，且街边多垂柳，正是“渭城朝雨浥轻尘，客舍青青柳色新”。杜甫有诗《兵车行》：“车辚辚，马萧萧，行人弓箭各在腰。耶娘妻子走相送，尘埃不见咸阳桥。”慷慨激愤，描写的也是千余年前此地的情景。出馆后到对面的秦楼月餐馆吃羊肉泡馍，难以下咽。
+从西安咸阳机场出来，途径凤凰台[^1]，到咸阳博物院（不开门），再到咸阳古渡遗址博物馆。彼时漫天细雨，此馆又地处渭城区，临渭河而建，且街边多垂柳，正是“渭城朝雨浥轻尘，客舍青青柳色新”。杜甫有诗《兵车行》：“车辚辚，马萧萧，行人弓箭各在腰。耶娘妻子走相送，尘埃不见咸阳桥。”慷慨激愤，描写的也正是千余年前此地的情景。出馆后到对面的秦楼月餐馆吃羊肉泡馍，难以下咽。
 
 到西安市区后，先去大明宫遗址，面积甚大，皇家之气宛存，然昔时“九天阊阖开宫殿”，所剩无非几处地基残垣。再赶往乐游原，汉唐时此地为长安城地势最高点，故有“驱车登古原”之说。初中时通过 ZYY 了解到李白 [^11] 的《忆秦娥 · 秋思》：
 
@@ -28,13 +28,13 @@ date: 2024-07-15 00:00:00
 
 但来到此地后发现只剩一座青龙寺，周围是密不透风的楼房，加上下雨，虽在黄昏，却毫无诗情可言。
 
-后乘地铁经西北工业大学友谊校区到阿房宫遗址，亦是“宫阙万间都做了土”[^10]，遗址公园还被用作应急避难场所。打车从地铁站到阿房宫的路上，司机问我是否为广东人[^9]，又接着问是不是广州人，我说不是，他继续猜，问到了茂名，我说是湛江的，以为他不知湛江，但他说他也去过。
+后乘地铁经西北工业大学（友谊校区）到阿房宫遗址，亦是“宫阙万间都做了土”[^10]，遗址公园还被用作应急避难场所。打车从地铁站到阿房宫的路上，司机问我是否为广东人[^9]，又接着问是不是广州人，我说不是，他继续猜，问到了茂名，我说是湛江的，以为他不知湛江，但他说他也去过。
 
-原计划在大唐西市吃晚饭，后发现此地皆为大商场，贵且没烟火气，遂至钟楼附近的崇辉澄城水盆羊肉，并饮当地特色冰峰汽水，吃完后拍了钟楼几张照片即返酒店。
+原计划在大唐西市吃晚饭，后发现此地皆为大商场，昂贵且没烟火气，遂至钟楼附近的崇辉澄城水盆羊肉，并饮当地特色的冰峰汽水，吃完后拍了钟楼几张照片即返酒店。
 
 - 7.8
 
-早上自西安赴山西永济，先至普救寺。王实甫《西厢记》中“红娘月下牵红线，张生巧会崔莺莺”的爱情故事就发生于此，普救寺因而名声大噪，内有莺莺塔，亦有崔莺莺一家寄居的“梨花深院”（自然是得名于晏殊的“梨花院落溶溶月，柳絮池塘淡淡风”）。来时游人寥寥，拾阶而上，倍感幽情，可能这是十余天的旅程中最舒适的一段，但我尚未读过《西厢记》，无非是附庸风雅罢了。本欲到蒲津渡遗址博物馆看看开元大铁牛，可惜闭馆。骆宾王有诗《夕次蒲类津》：
+早上自西安赴山西永济，先至普救寺。王实甫《西厢记》中“红娘月下牵红线，张生巧会崔莺莺”的故事发生于此，普救寺因而名声大噪，内有莺莺塔，亦有崔莺莺一家寄居的“梨花深院”（自然是得名于晏殊的“梨花院落溶溶月，柳絮池塘淡淡风”）。来时游人寥寥，拾阶而上，倍感幽情，可能这是十余天的旅程中最舒适的一段，但我尚未读过《西厢记》，无非是附庸风雅罢了。本欲到蒲津渡遗址博物馆看看开元大铁牛，可惜闭馆。骆宾王有诗《夕次蒲类津》：
 
 > 二庭归望断，万里客心愁。
 > 山路犹南属，河源自北流。
@@ -47,7 +47,7 @@ date: 2024-07-15 00:00:00
 
 然后就到了鹳雀楼。提前一天来西安就是为了有时间来鹳雀楼。登楼远眺，汾渭平原一片苍茫，黄河在大地与天空交界处静静向南流淌，还剩几十公里就将走完“几”字形的最后一弯（对岸就是潼关），向东入海流。
 
-永济在运城市，运城历史上属于河东，当地名人中文有司马迁、王勃、王维、王之涣、柳宗元、卢纶、司马光、关汉卿，武有关羽、薛仁贵，让人不由感慨人杰地灵。王之涣以门荫入仕，授衡水主簿。后受人诬谤，拂衣去官，《登鹳雀楼》可能就作于弃官归乡途中。天宝元年（742），补文安县尉，同年卒于文安任上，时年五十五岁。十余年后，安史之乱骤起，镇守潼关的哥舒翰被朝廷强命出击，大败，潼关失守，哥舒翰被俘并投降，随后长安陷落，唐玄宗仓皇入蜀，杨贵妃香消马嵬坡。上世纪五六十年代，修建三门峡水电站时误判潼关城将被淹没，故全城拆迁，哀哉雄关屹立千年不倒，竟遭自毁于一旦。初一语文课本收录了谭嗣同的《潼关》：
+永济在运城市，运城历史上属于河东，当地名人中文有司马迁、王勃、王维、王之涣、柳宗元、卢纶、司马光、关汉卿，武有关羽、薛仁贵，让人不由感慨人杰地灵。王之涣以门荫入仕，授衡水主簿。后受人诬谤，拂衣去官，《登鹳雀楼》可能就作于弃官归乡途中。天宝元年（742），王之涣补文安县尉，同年卒于文安任上，时年五十五岁。十余年后，安史之乱骤起，镇守潼关的哥舒翰被朝廷强命出击，大败，潼关失守，哥舒翰被俘并投降，随后长安陷落，唐玄宗仓皇入蜀，杨贵妃香消马嵬坡。上世纪五六十年代，修建三门峡水电站时误判潼关城将被淹没，故全城拆迁，哀哉雄关屹立千年不倒，竟遭自毁于一旦。初一语文课本收录了谭嗣同的《潼关》：
 
 > 终古高云簇此城，秋风吹散马蹄声。
 > 河流大野犹嫌束，山入潼关不解平。
@@ -58,9 +58,9 @@ date: 2024-07-15 00:00:00
 
 - 7.9
 
-早上参观西安交通大学西迁博物馆。中午去西安半坡博物馆，博物馆一墙之隔是半坡国际广场，颇有一些荒诞色彩。
+早上参观西安交通大学西迁博物馆。中午去西安半坡博物馆，博物馆旁边是半坡国际广场，远古与现代一墙之隔，颇有一些荒诞色彩。
 
-下午放学早，先去西安事变纪念馆（张学良公馆），再从长乐门上城墙，用一小时左右骑车绕城一周[^2]，途径广仁寺与西北大学太白校区。下城墙后到钟楼新华书店[^3]一览，并到鼓楼拍照，亦是人头攒动，未作过久停留。
+下午放学早，先去西安事变纪念馆（张学良公馆），再从长乐门上城墙，用一小时左右骑车绕城一周[^2]，途径广仁寺与西北大学（太白校区）。下城墙后到钟楼新华书店[^3]一览，并到鼓楼拍照，此处亦是人头攒动，未作过久停留。
 
 - 7.10
 
@@ -68,13 +68,13 @@ date: 2024-07-15 00:00:00
 
 - 7.11
 
-中午去白鹿原上的陈忠实故居，但到了才知并非纪念馆，门不开，仅有一牌子。但原上视野很好，灞河即在东边不远处，或许更有乐游原之感。本想看看灞桥，但古桥早已不存。当地有大片樱桃园，一路上途径霸陵墓园[^4]、汉陵墓园，并不断见到“随园 鳄鱼宴”的招牌，不知为何物。当地还有白鹿原 · 白鹿仓景区，是拍摄《白鹿原》电视剧的场地，未去。后直奔陕西省美术博物馆（无需预约），路过陕西省图书馆长安路馆。然后骑车经西安音乐学院去大兴善寺天龙宝严素食馆食菌汤面与自制杏仁豆腐，后者口感尤为精妙。馆内皆为素菜，但有些菜品名为“孜然小炒肉”“黑椒杏鲍菇炒牛肉粒”，亦是奇事。至今不理解为何很多素菜要刻意模仿荤菜的形状或味道，而且往往价格还比荤菜更贵。
+中午去白鹿原上的陈忠实故居，但到了才知并非纪念馆，门不开，仅有一牌子。但原上视野很好，灞河即在东边不远处，或许更有乐游原之感。本想看看灞桥，但古桥早已不存。当地有大片樱桃园，一路上途径霸陵墓园[^4]、汉陵墓园，并不断见到“随园 鳄鱼宴”的招牌，不知为何物。当地还有白鹿原 · 白鹿仓景区，是拍摄《白鹿原》电视剧的场地，未去。后直奔陕西省美术博物馆（无需预约），路过陕西省图书馆长安路馆。然后骑车经西安音乐学院去大兴善寺天龙宝严素食馆，吃了菌汤面与自制杏仁豆腐，后者口感尤为精妙。馆内皆为素菜，但有些菜品名为“孜然小炒肉”“黑椒杏鲍菇炒牛肉粒”。至今不理解为何很多素菜要刻意模仿荤菜的形状或味道，而且往往价格还比荤菜更贵。
 
 大兴善寺过去与玄都观隔街相对，可惜玄都观已灰飞烟灭，唯有刘禹锡“玄都观里桃千树，尽是刘郎去后栽”、“种桃道士归何处，前度刘郎今又来”的嬉笑怒骂长留世间。
 
-饭后骑车经过西交雁塔校区、西北政法大学雁塔校区、陕西广播电视塔（陕西自然博物馆）、陕西师大雁塔校区、西安外国语大学雁塔校区和西安财经大学翠华西校区到大唐不夜城，满街华冠丽服，可惜自己既非才子，更无佳人，不过走马观花而已。我很享受骑共享单车在城中穿行的感觉，相较之下，地铁太黑（看不到外面），打车太贵，走路太累，还是骑着车“沿着一条路走下去的时候，心里总想着另一条路上的事”来得舒服。后去西安美术馆，再到曲江遗址公园。我到曲江时正是傍晚，公园广场上有一批学生在练体育，池上波光粼粼，游船往来不绝。
+饭后骑车经过西交（雁塔校区）、西北政法大学（雁塔校区）、陕西广播电视塔（陕西自然博物馆）、陕西师大（雁塔校区）、西安外国语大学（雁塔校区）和西安财经大学（翠华西校区）到大唐不夜城，满街华冠丽服，可惜自己既非才子，更无佳人，不过走马观花而已。我很享受骑共享单车在城中穿行的感觉，相较之下，地铁太黑（看不到外面），打车太贵，走路太累，还是骑着车“沿着一条路走下去的时候，心里总想着另一条路上的事”来得舒服。后去西安美术馆，再到曲江遗址公园。我到曲江时正是傍晚，公园广场上有一批学生在练体育，池上波光粼粼，游船往来不绝。
 
-唐肃宗至德元年（756）秋，杜甫离开鄜州去投奔刚即位的唐肃宗，不巧被安史叛军抓获，带到沦陷了的长安，第二年春天写下了《哀江头》[^5]：
+唐肃宗至德元年（756）秋，杜甫离开鄜州（今延安富县）去投奔刚即位的唐肃宗，不巧被安史叛军抓获，带到沦陷了的长安，第二年春天写下了《哀江头》[^5]：
  
 > 少陵野老吞声哭，春日潜行曲江曲。
 > 江头宫殿锁千门，细柳新蒲为谁绿？
@@ -87,7 +87,7 @@ date: 2024-07-15 00:00:00
 > 人生有情泪沾臆，江水江花岂终极！
 > 黄昏胡骑尘满城，欲往城南望城北。
 
-而在四百年后的孝宗乾道八年（1172），四十八岁的陆游接受四川宣抚使王炎的邀请，来到南郑（今属陕西汉中），担任四川宣抚使公署干办公事兼检法官，从军九个月。彼时长安早已被金国占领，陆游登上高兴亭，写下《秋波媚 · 七月十六日晚登高兴亭望长安南山》：
+四百年后的孝宗乾道八年（1172），四十八岁的陆游接受四川宣抚使王炎的邀请，来到南郑（今属陕西汉中），担任四川宣抚使公署干办公事兼检法官，从军九个月。彼时长安早已被金国占领，陆游登上高兴亭，写下《秋波媚 · 七月十六日晚登高兴亭望长安南山》：
 > 秋到边城角声哀，烽火照高台。悲歌击筑，凭高酹酒，此兴悠哉。
 > 多情谁似南山月，特地暮云开。灞桥烟柳，曲江池馆，应待人来。
 
@@ -97,9 +97,9 @@ date: 2024-07-15 00:00:00
 
 - 7.12
 
-早赴小雁塔，并游西安博物院。后经西安体育学院、西安医学院含光校区、西安电子科技大学北校区，到邢老四[^6]家喝胡辣汤，再尝腊牛肉肉夹馍，并饮冰峰。
+早赴小雁塔，并游西安博物院。后经西安体育学院、西安医学院（含光校区）、西安电子科技大学（北校区），到邢老四[^6]家喝胡辣汤，再尝腊牛肉肉夹馍，并饮冰峰。
 
-下午赴陕西考古博物馆，途径西安科技大学雁塔校区、长安大学南校区、陕西师大长安校区、西北大学长安校区和西安外国语大学长安校区。从博物馆出来，打车到不远处的香积寺。现在香积寺现就在大路边上，绝非王维《过香积寺》里的“数里入云峰”了。从香积寺往南望去，秦岭绵延起伏，层层云雾缭绕其间，突然意识到所处已是北方了。上一次来北方还是八年前。香积寺内有善导塔，形制如小雁塔，塔顶亦缺。
+下午赴陕西考古博物馆，途径西安科技大学（雁塔校区）、长安大学（南校区）、陕西师大（长安校区）、西北大学（长安校区）和西安外国语大学（长安校区）。参观完博物馆后，打车到不远处的香积寺。现在香积寺就在大路边上，绝非王维《过香积寺》里的“数里入云峰”了。从香积寺往南望去，秦岭绵延起伏，层层云雾缭绕其间，突然意识到所处已是北方了；上一次来北方还是八年前。香积寺内有善导塔，形制如小雁塔，塔顶亦缺。
 
 - 7.13
 
@@ -111,9 +111,9 @@ date: 2024-07-15 00:00:00
 
 - 7.14
 
-早起坐地铁赴兵马俑，途径中国科学院国家授时中心（北京时间在此发布）。兵马俑自然是举世闻名，中外游人摩肩接踵，特别是一号坑内，几乎难以移动脚步，参观体验极差，加上尚有很大一部分未开挖，因而个人感觉没有想象中那么震撼。最后也逃不了讲解员的推销，这里宣传的是蓝田玉，据讲解员所言，全国只有在兵马俑和陕西地矿局能买到真蓝田玉，对此我并未考证。后未去秦始皇帝陵丽山园，在临潼博物馆稍作停留就到华清宫，先上兵谏亭，见蒋介石藏身处。很不解为何胡宗南等要建此亭，哪有在领导落难处拍马屁并美其名之曰“浩然正气”的？旁有与饰演蒋介石、宋美龄的特型演员合影的付费项目，怪模怪样，和山下杨贵妃洗澡处半斤八两。骊山上还有烽火戏诸侯的遗址，但未上山。
+早起坐地铁赴兵马俑，途径中国科学院国家授时中心（北京时间在此发布）。兵马俑举世闻名，中外游人摩肩接踵，特别是一号坑内，几乎难以移动脚步，参观体验极差，加上尚有很大一部分未开挖，因而个人感觉没有想象中那么震撼。最后也逃不了讲解员的推销，这里宣传的是蓝田玉，据讲解员所言，全国只有在兵马俑和陕西地矿局能买到真蓝田玉，对此我并未考证。后未去秦始皇帝陵丽山园，在临潼博物馆稍作停留就到华清宫，先上兵谏亭，见蒋介石藏身处。很不解胡宗南等人为何要建此亭，哪有在领导落难处拍马屁并美其名之曰“浩然正气”的？旁有与饰演蒋介石、宋美龄的特型演员合影的付费项目，怪模怪样，和山下杨贵妃洗澡处半斤八两。骊山上还有烽火戏诸侯的遗址，但未上山。
 
-回城后步行经骡马市到爱骅裤带面馆吃 biangbiang 面，三饮冰峰。面条用小面盆大小的铝碗来装，或许就是所谓的陕西八大怪之一了。吃完走到万邦书店、西安古旧书店，并在古旧书店淘到一套84年的《李商隐诗集疏注》，后经湘子庙[^8]到 skp 书店（西安 SKP 店），装修极为奢华，出门时服务员竟会鞠躬送客。
+回城后步行经骡马市到爱骅裤带面馆吃 biangbiang 面，三饮冰峰。面条用小面盆大小的铝碗来装，或许就是所谓的“陕西八大怪”之一了。吃完走到万邦书店、西安古旧书店，并在古旧书店淘到一套1984年的《李商隐诗集疏注》，后经湘子庙[^8]到 skp 书店（西安 SKP 店），装修极为奢华，出门时服务员竟会鞠躬送客。
 
 - 7.16
 
@@ -189,7 +189,7 @@ date: 2024-07-15 00:00:00
 
 回顾我的初次长安三万里之旅，似乎很难概括出具体的感受，但又绝非无话可说，该怎么形容呢？
 
-或许就如在永宁门前的广场上，听到一段熟悉但记不起来的萨克斯，打开网易云听歌识曲亦未果，只能期待与它重逢。而几步之外，有个男人在用吉他弹唱“你问我爱你有多深/我爱你有几分……”，身前白纸上写着他在为患心脏病的女儿筹钱。
+或许就如在永宁门前的广场上，听到一段熟悉但记不起名字的萨克斯，只能期待与它的重逢。而几步之外，有个男人在用吉他弹唱“你问我爱你有多深/我爱你有几分……”，身前白纸上写着他在为患心脏病的女儿筹钱。
 
 又如在从大明宫到乐游原的路上，网约车里放着苏慧伦的《鸭子》:“看着你搭 TAXI 孤单地离去/全世界只剩我在淋雨/……/啊哈，去吧/没什么了不起……”当旋律响起，我望向窗外，只见天街小雨，落地无声。
 

diff --git a/source/_posts/回家路上3：永州、柳州、来宾、贵港、玉林.md b/source/_posts/回家路上3：永州、柳州、来宾、贵港、玉林.md
@@ -55,7 +55,7 @@ date: 2026-02-12 00:00:00
 
 永州的景区集中在零陵区，所以没有在永州站所处的冷水滩区[^1]规划目的地；但此刻时候尚早，便坐上一辆公交车，慢慢悠悠前往万达广场吃了份烤肉，饭后又回永州站，搭火车去零陵。其实两地之间只有一站路，也通有公交，但为了增加行程的多样性，我决定到零陵时乘火车，从零陵回永州站时再坐公交。
 
-永贞元年（805），32岁的柳宗元积极参与王叔文、王伾领导的永贞革新，半年后即告失败。9月，柳宗元被贬为邵州（今湖南邵阳）刺史，后在赴任途中，又被加贬为永州司马，因而他与被贬为朗州（今湖南常德）司马的刘禹锡等人一起被称为“二王八司马”；直到十年后，柳宗元等人才重新被召进京。在被贬途中，柳宗元作《吊屈原文》，遭遇的相似、地域的巧合使其与屈原获得了强烈的精神共鸣，后来沈德潜在《唐诗别裁》评论为“柳州诗长于哀怨，得骚之余意”。到永州仅过半年后，柳宗元的母亲就因病去世。在永州的十年是柳宗元创作的高峰期，《柳河东全集》的540多篇诗文中有317篇创作于永州，其中不乏[《永州八记》](https://baike.baidu.com/item/%E6%B0%B8%E5%B7%9E%E5%85%AB%E8%AE%B0/378688)、《江雪》、[《渔翁》](https://baike.baidu.com/item/%E6%B8%94%E7%BF%81/22257457)、[《愚溪诗序》](https://baike.baidu.com/item/%E6%84%9A%E6%BA%AA%E8%AF%97%E5%BA%8F/1948974)、[《溪居》](https://baike.baidu.com/item/%E6%BA%AA%E5%B1%85/9113)、[《捕蛇者说》](https://baike.baidu.com/item/%E6%8D%95%E8%9B%87%E8%80%85%E8%AF%B4/1775063)、[《桐叶封弟辨》](https://baike.baidu.com/item/%E6%A1%90%E5%8F%B6%E5%B0%81%E5%BC%9F%E8%BE%A8/6039736)、[《封建论》](https://baike.baidu.com/item/%E5%B0%81%E5%BB%BA%E8%AE%BA/10373280)、[《黔之驴》](https://baike.baidu.com/item/%E9%BB%94%E4%B9%8B%E9%A9%B4/3638369)、[《蝜蝂传》](https://baike.baidu.com/item/%E8%9D%9C%E8%9D%82%E4%BC%A0/1850798)等名作，涵盖诗歌、山水游记、政论、寓言等诸多门类。柳宗元在永州官处编外闲职，似乎未能实践他的政治构想，但其作品使当地在文化史上留下了不可磨灭的印记，并不断吸引着历代的游人，这何尝不是一种功德无量呢。
+永贞元年（805），32岁的柳宗元积极参与王叔文、王伾领导的永贞革新，半年后即告失败。9月，柳宗元被贬为邵州（今湖南邵阳）刺史，后在赴任途中，又被加贬为永州司马，因而他与被贬为朗州（今湖南常德）司马的刘禹锡等人一起被称为“二王八司马”；直到十年后，柳宗元等人才重新被召回京。在被贬途中，柳宗元作《吊屈原文》，遭遇的相似、地域的巧合使其与屈原获得了强烈的精神共鸣，后来沈德潜在《唐诗别裁》评论为“柳州诗长于哀怨，得骚之余意”。到永州仅过半年后，柳宗元的母亲就因病去世。在永州的十年是柳宗元创作的高峰期，《柳河东全集》的540多篇诗文中有317篇创作于永州，其中不乏[《永州八记》](https://baike.baidu.com/item/%E6%B0%B8%E5%B7%9E%E5%85%AB%E8%AE%B0/378688)、《江雪》、[《渔翁》](https://baike.baidu.com/item/%E6%B8%94%E7%BF%81/22257457)、[《愚溪诗序》](https://baike.baidu.com/item/%E6%84%9A%E6%BA%AA%E8%AF%97%E5%BA%8F/1948974)、[《溪居》](https://baike.baidu.com/item/%E6%BA%AA%E5%B1%85/9113)、[《捕蛇者说》](https://baike.baidu.com/item/%E6%8D%95%E8%9B%87%E8%80%85%E8%AF%B4/1775063)、[《桐叶封弟辨》](https://baike.baidu.com/item/%E6%A1%90%E5%8F%B6%E5%B0%81%E5%BC%9F%E8%BE%A8/6039736)、[《封建论》](https://baike.baidu.com/item/%E5%B0%81%E5%BB%BA%E8%AE%BA/10373280)、[《黔之驴》](https://baike.baidu.com/item/%E9%BB%94%E4%B9%8B%E9%A9%B4/3638369)、[《蝜蝂传》](https://baike.baidu.com/item/%E8%9D%9C%E8%9D%82%E4%BC%A0/1850798)等名作，涵盖诗歌、山水游记、政论、寓言等诸多门类。柳宗元在永州官处编外闲职，似乎未能实践他的政治构想，但其作品使永州在文化史上留下了不可磨灭的印记，并不断吸引着历代的游人，这何尝不是一种功德无量呢。
 
 从20岁初举进士到32岁被贬，这十几年里柳宗元创作较少（代表作品是《种树郭橐驼传》），主要将精力放在政务上，后来他追述道：“仆之为文久矣，然心少之，不务也，以为是特博弈之雄耳。故在长安时，不以是取名誉，意欲施之事实，以辅时及物为道。”（《答吴武陵论<非国语>书》）在长安期间，柳宗元就与韩愈、刘禹锡相善。韩柳作为古文运动的倡导者，所作文章几乎可代表唐朝的最高水平，但二人文风颇有不同，“韩柳之别，则犹作室，子厚先量自家四至所到，不敢略侵他人田地；退之则惟意所指，横斜曲直，只要自家屋子饱满，初不问田地四至，或在我与别人也。”（《隐居通议》卷十七《艾轩先生跋韩柳苏黄集》）两人对佛教的态度亦大相径庭：韩愈坚决排斥佛教，以至上《谏迎佛骨表》而被贬潮州；但柳宗元“自幼好佛”，并与很多僧人交好，两人的交锋在[《送僧浩初序》](https://baike.baidu.com/item/%E9%80%81%E5%83%A7%E6%B5%A9%E5%88%9D%E5%BA%8F/22851435)中可见一斑。
 
@@ -67,7 +67,7 @@ date: 2026-02-12 00:00:00
 
 这一传说后来还演变出“潇湘神”这一词牌名，其中最有代表性的作品，是刘禹锡在朗州所作的“斑竹枝，斑竹枝，泪痕点点寄相思。楚客欲听瑶瑟怨，潇湘深夜月明时。”至于屈原《楚辞》中湘君、湘夫人的原型，有人说就是舜帝和二妃，也有人认为是民间传统信仰中的湘水神灵，在此不作讨论。
 
-三国时期，零陵位于蜀国和吴国的交界处，蜀汉丞相蒋琬和孙吴名将黄盖都来自零陵；唐朝“草圣”怀素也是零陵人。用“小红书”查攻略时，了解到能从零陵古城坐船去萍洲书院；书院始建于乾隆年间，位于潇湘交汇处的萍岛上，从古至今都只能通过水路登岛。在去书院的船上，能看到岸边的迴龙塔（建于万历年间，第七批国保）。萍岛一旁还有数个大岛，从卫星图像上来看，正好组成了一个身着长袍的古人形象，而书院处于大脑位置，不知是不是古人有意为之（周遭环山，能俯瞰诸岛）。
+三国时期，零陵位于蜀国和吴国的交界处，蜀汉丞相蒋琬和孙吴名将黄盖都来自零陵；唐朝“草圣”怀素也是零陵人。用“小红书”查攻略时，了解到能从零陵古城坐船去萍洲书院；始建于乾隆年间的萍洲书院位于潇湘交汇处的萍岛上，从古至今都只能通过水路登岛。在去书院的船上，能看到岸边的迴龙塔（建于万历年间，第七批国保）。萍岛一旁还有数个大岛，从卫星图像上来看，正好组成了一个身着长袍的古人形象，而书院处于大脑位置，不知是不是古人有意为之。
 
 第二天晨起，在路边随便吃了份米粉，过桥到对岸的零陵古城，等到九点半开船。晓雾未歇，又添雨气，颇有“欸乃一声山水绿”之幽情。半小时后上岛，和其他九个人一起请了个导游，上述“九嶷”和“零陵”的由来就是导游所讲。萍岛上还有“潇湘八景”之一的“潇湘夜雨”；马致远有一首《寿阳曲》，便是借此景抒情：
 > 渔灯暗，客梦回。一声声滴人心碎。孤舟五更家万里，是离人几行清泪。
@@ -102,9 +102,9 @@ date: 2026-02-12 00:00:00
 >
 > 注：此诗作于祁阳。
 
-11点半登船回城，先去柳子庙，雨下得越发的大了。柳子庙始建于两宋；严嵩还未入阁时，曾以翰林学士的身份途径永州，在庙中留下了《寻愚溪谒柳子庙碑》，这也是严嵩存世的三块真迹之一；此外还有顺治年间重刻的《荔子碑》（原碑在柳州柳侯祠），此碑由韩愈撰、苏轼书，加上柳宗元的德政，被称为“三绝碑”。在柳子庙的文创店里，看到了介绍何仙姑的书，得知零陵也是何仙姑传说的一个发源地。
+11点半登船回城，先去始建于两宋的柳子庙，雨下得越发的大了。严嵩还未入阁时，曾以翰林学士的身份途径永州，在庙中留下了《寻愚溪谒柳子庙碑》，这也是严嵩存世的三块真迹之一；此外还有顺治年间重刻的《荔子碑》（原碑在柳州柳侯祠），此碑由韩愈撰、苏轼书，加上柳宗元的德政，被称为“三绝碑”。在柳子庙的文创店里，看到了介绍何仙姑的书，得知零陵也是何仙姑传说的一个发源地。
 
-从柳子庙出来，缘愚溪访钴鉧潭、西小丘、小石潭，未上西山。如今钴鉧潭、小石潭早已不存，加之正在修路，更显破败不堪，几无游人踏足；虽鲜见游鱼，但确有“竹树环合，寂寥无人，凄神寒骨，悄怆幽邃”之境。我稍作停留，便踏石过溪，沿对岸返回，寻得“醉永州”饭店，要了份血鸭捞饭，大快朵颐。饭前服务员端来一个火盆放到桌下，此前从未见过。饭店前台挂着一副书法作品，是用女书题写的店名；女书只流传在永州江永县一带的瑶族妇女中。
+从柳子庙出来，缘愚溪访钴鉧潭、西小丘、小石潭，未上西山。如今钴鉧潭、小石潭早已不存，加之正在修路，更显破败不堪，几无游人踏足；虽鲜见游鱼，但确有“四面竹树环合，寂寥无人，凄神寒骨，悄怆幽邃”之境。我稍作停留，便踏石过溪，沿对岸返回，寻得“醉永州”饭店，要了份血鸭捞饭，大快朵颐。饭前服务员端来一个火盆放到桌下，此前从未见过。饭店前台挂着一副书法作品，是用女书题写的店名；女书只流传在永州江永县一带的瑶族妇女中。
 
 饭后骑共享电动车去朝阳岩公园。唐永泰二年（765）元结途经此地并命名，撰《朝阳岩铭》及诗作刻于石壁，柳宗元谪居永州时亦常游于此，《渔翁》《江雪》可能都是在此酝酿而成（但幽默的是，围栏上写着“此处严禁钓鱼”），后来徐霞客也曾来过并详述其地貌特征；现存摩崖石刻150余方，含周敦颐、黄庭坚、何绍基等名家题刻，被列为第七批国保单位。不过每到这种有碑刻的景区，限于学识、时间以及碑刻的受破坏程度，一般都是草草看过，多半没入脑。
 

diff --git a/source/_posts/行旅杂记.md b/source/_posts/行旅杂记.md
@@ -135,14 +135,14 @@ date: 2024-11-15 00:00:00
 
 以上各篇游记的简要行程安排已整理到了[《行程轨迹汇总》](../dbd5/)。
 
-至此，共计去过21个省级行政区，85个城市[^20]：
+至此，共计去过21个省级行政区，86个城市[^20]：
 - 省
   - 广东（15/21）：湛江、广州、茂名、东莞、河源、惠州、阳江、江门、佛山、中山、珠海、韶关、揭阳、潮州、深圳
   - 贵州（5/9）：贵阳、黔南、黔东南、安顺、铜仁
   - 安徽（13/16）：合肥、池州、黄山、芜湖、宣城、安庆、铜陵、淮北、六安、滁州、马鞍山、淮南、阜阳
   - 湖北（2/17）：武汉、孝感
   - 湖南（3/14）：岳阳、郴州、永州
-  - 江苏（3/13）：扬州、镇江、徐州
+  - 江苏（4/13）：扬州、镇江、徐州、南京
   - 陕西（3/10）：咸阳、西安、榆林
   - 山西（5/11）：运城、太原、吕梁、忻州、大同
   - 江西（2/11）：南昌、赣州
@@ -298,10 +298,11 @@ date: 2024-11-15 00:00:00
 ||张掖西|酒泉南|D575|191|
 ||酒泉|嘉峪关|7567|22|
 ||嘉峪关南|敦煌|D2737|357|
+||合肥南|南京南|G7434|157|
 
 {% endhideToggle %}
 
-- 小计：125次（普铁41次，高铁/动车84次），48027km（普铁17187km，高铁/动车30840km），123个车站，63个城市 [^18]
+- 小计：126次（普铁41次，高铁/动车85次），48184km（普铁17187km，高铁/动车30997km），124个车站，64个城市 [^18]
 
 <figure style="text-align: center;"> <img src="https://s3.bmp.ovh/2026/03/06/9R9EYm5h.jpg" alt="铁路线路" style="display: block; margin-left: auto; margin-right: auto;width: 100%;"></figure>
 
@@ -373,6 +374,7 @@ date: 2024-11-15 00:00:00
 |张掖|张掖、张掖西|
 |酒泉|酒泉南、酒泉、敦煌|
 |嘉峪关|嘉峪关、嘉峪关南|
+|南京|南京南|
 
 {% endhideToggle %}
 

diff --git a/source/journey/index.md b/source/journey/index.md
@@ -20,7 +20,7 @@ title: Journey
   - [长安一片月，吹梦到西洲：西安一游，兼记咸阳运城](../posts/439b/)
   - [回家路上1：杭州、宁波、南昌、郴州、韶关](../posts/bb58/)
   - [潮汕初探](../posts/52b1/)
-  - [“人生短短几个秋啊，不醉不罢休”——在洛阳、郑州的中秋](../posts/4186/)
+  - [“人生短短几个秋啊，不醉不罢休”：在洛阳、郑州的中秋](../posts/4186/)
   - [今古一相接，长歌怀旧游：国庆出游杂记](../posts/786/)
 
 - 2025

diff --git a/河西走廊.md b/河西走廊.md
@@ -205,7 +205,7 @@ https://www.lzwenhuawang.com/show-30-348-1.html
 酒泉六中，高考广播
 古城门
 钟鼓楼
-西汉酒泉胜迹
+西汉酒泉胜迹 酒泉边左公柳
 去病
 翠小小市井粤菜
 商场内酒泉天宝景区